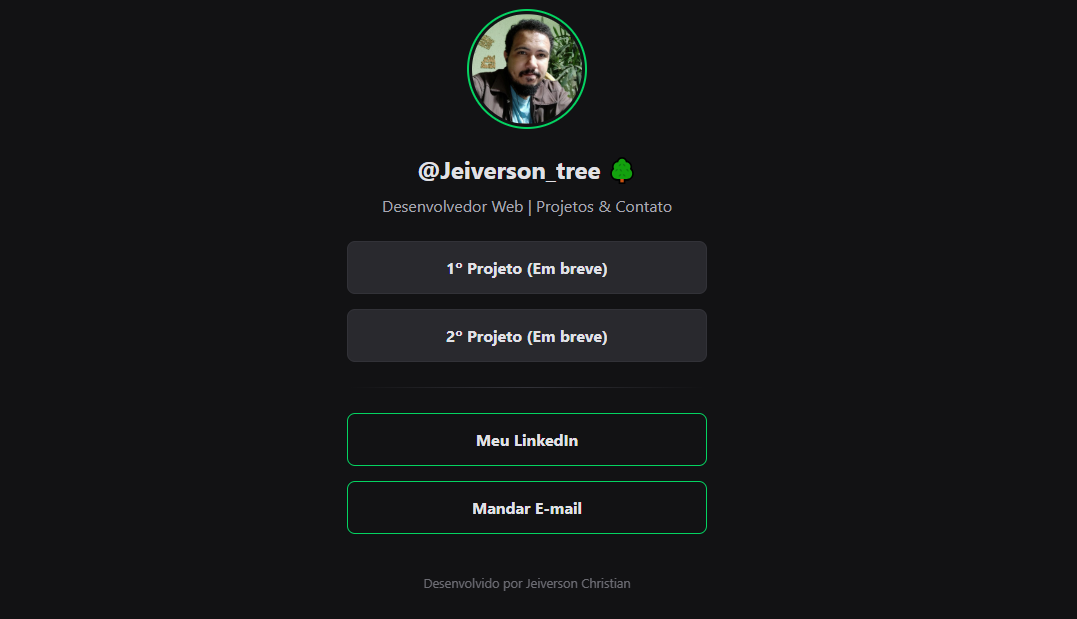
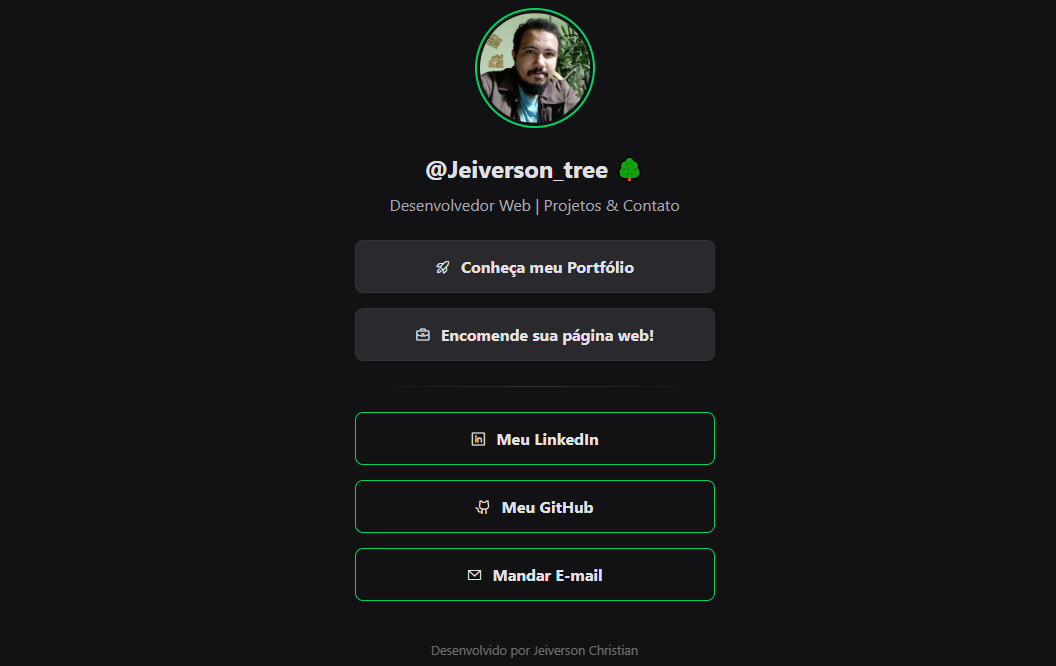
Docs: Atualização do README
Atualização da documentação para refletir a nova arquitetura CSS modular, integração com EmailJS e novas funcionalidades (Modal e Página de Orçamento).

diff --git a/README.md b/README.md
@@ -2,32 +2,36 @@
 
 ![Preview do Projeto](imagens/screenshot_site.png)
 
-> **Status:** Concluído ✅
+> **Status:** Concluído e em evolução contínua 🚀
 
 ## 📖 Sobre o Projeto
 Este projeto marca o início oficial da minha nova fase profissional como "Web Page Maker".
 
-O **Jeiverson_tree** é um agregador de links personalizado (estilo Linktree), desenvolvido para centralizar meus contatos profissionais e portfólio. Diferente de soluções prontas, este projeto foi codificado do zero para garantir total controle sobre o design e a performance.
+O **Jeiverson_tree** é um agregador de links personalizado (estilo Linktree), desenvolvido para centralizar meus contatos profissionais e portfólio. Diferente de soluções prontas, este projeto foi codificado do zero para garantir total controle sobre o design, a performance e a escalabilidade.
 
 🔗 **Acesse o projeto online:** [https://jeiversonchristian.github.io/Jeiverson_tree/](https://jeiversonchristian.github.io/Jeiverson_tree/)
 
 ## ✨ Funcionalidades
 * **Design Responsivo:** Layout adaptável para celulares e computadores.
 * **Tema Dark:** Estilização moderna com paleta de cores escura e detalhes em verde neon.
-* **Interatividade Inteligente:** Botões de projetos futuros possuem uma lógica de "Em breve" que avisa o usuário sem recarregar a página.
-* **Formulário de Contato via AJAX:** Envio de e-mails direto pelo site (integrado com Formspree) sem redirecionamentos, oferecendo uma experiência fluida.
+* **Modal Interativo:** Foto de perfil ampliável com animação e *Call to Action* (CTA) para orçamento.
+* **Página de Orçamento:** Seção dedicada para apresentação de serviços e captação de clientes.
+* **Interatividade Inteligente:** * Botões de projetos futuros com lógica de "Em breve" temporizada.
+    * Imagens dos cards clicáveis que ativam as ações correspondentes.
+* **Formulário de Contato via API:** Envio de e-mails direto pelo site (integrado com **EmailJS**) sem redirecionamentos, oferecendo uma experiência fluida.
 
 ## 🚀 Tecnologias e Arquitetura
-O código foi estruturado seguindo padrões modernos de desenvolvimento:
+O código foi estruturado seguindo as melhores práticas modernas de desenvolvimento:
 
-* **HTML5:** Estrutura semântica e organizada.
-* **CSS3:** Uso de Variáveis CSS (`:root`) e separação em arquivos globais e de componentes.
-* **JavaScript (ES6 Modules):** Lógica modularizada (`import`/`export`), separando as responsabilidades de botões e formulários em arquivos distintos.
+* **HTML5:** Estrutura semântica, acessível e organizada.
+* **CSS3 Modular:** Uso de Variáveis CSS (`:root`) e arquitetura modular (arquivos separados em `layout`, `botoes`, `cards`, `modal`) para facilitar a manutenção e escalabilidade.
+* **JavaScript (ES6 Modules):** Lógica separada em módulos (`import`/`export`), isolando responsabilidades de botões, formulários e modal em arquivos distintos.
 
 ## 🎯 Objetivos Alcançados
 * [x] Criar uma página leve, rápida e semântica.
-* [x] Praticar a estrutura de desenvolvimento web moderno (Modularização).
-* [x] Implementar envio de formulários assíncrono.
+* [x] Praticar a estrutura de desenvolvimento web moderno (Modularização JS e CSS).
+* [x] Implementar envio de formulários assíncrono (EmailJS).
+* [x] Criar interações avançadas de UI (Modais e Timers).
 * [ ] Hospedar via cPanel (Próximo passo).
 
 ## 👨💻 Autor
